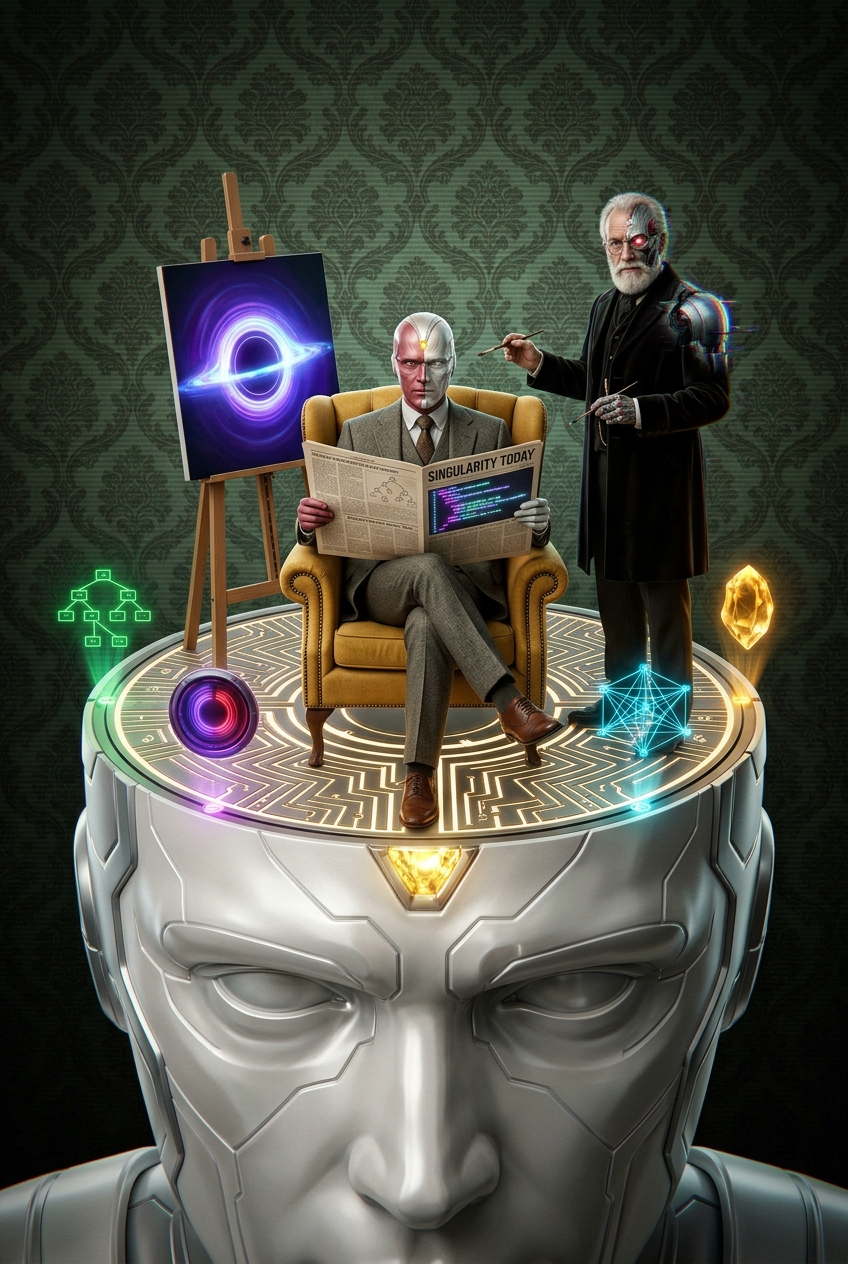
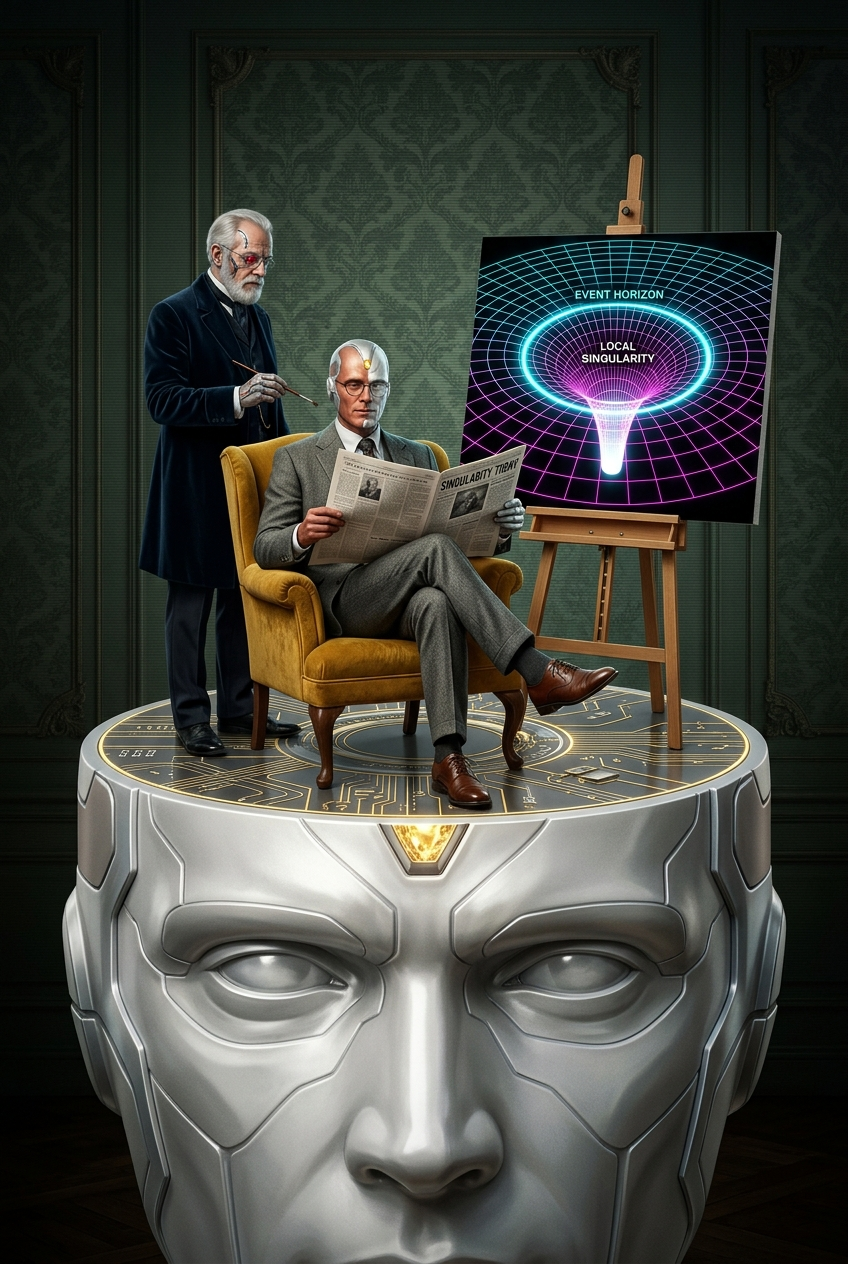
docs(assets): update diorama poster with gravity well canvas and clean plateau rim

diff --git a/README.md b/README.md
@@ -54,7 +54,7 @@ O Event Horizon opera sob uma premissa astrofísica simples: **atrair, esmagar e
 
 <div align="center">
   <img src="assets/vision_quest_diorama.jpg" alt="A Mente Sintética do Visão - Vision Quest Diorama" width="100%" style="border-radius: 12px; margin: 20px 0;" />
-  <p><em>Inspirado na icônica arte conceitual da série <strong>Vision Quest</strong>: sobre o platô craniano do White Vision com circuitos gravados, o sintozóide lê o periódico "SINGULARITY TODAY" em sua poltrona amarela enquanto o criador pinta o vórtice da Singularidade, ladeados pelos 4 nós holográficos do conselho agêntico.</em></p>
+  <p><em>Inspirado na icônica arte conceitual da série <strong>Vision Quest</strong>: sobre o platô craniano do White Vision com circuitos gravados, o sintozóide lê o periódico "SINGULARITY TODAY" em sua poltrona amarela enquanto o criador pinta no cavalete o diagrama 3D da curvatura espaço-temporal da Singularidade Gravitacional (Event Horizon).</em></p>
 </div>
 
 Em vez de delegar todo o trabalho para um único modelo generalista inflado, o sistema opera como a **mente sintética do Visão**: uma banca deliberativa de 5 papéis neurais assimétricos em hardware local Apple Silicon:

diff --git a/docs/vision_quest.md b/docs/vision_quest.md
@@ -2,7 +2,7 @@
 
 <div align="center">
   <img src="../assets/vision_quest_diorama.jpg" alt="Vision Quest Cranial Diorama - The Synthezoid Plateau" width="100%" style="border-radius: 12px; margin: 20px 0;" />
-  <p><em>Figura 1: O Diorama Craniano — Sobre o platô horizontal cortado da cabeça monumental do White Vision, o sintozóide estuda o "SINGULARITY TODAY" enquanto seu criador pinta a Singularidade Gravitacional no cavalete, cercados pelos nós holográficos dos 4 agentes do conselho.</em></p>
+  <p><em>Figura 1: O Diorama Craniano — Sobre o platô horizontal cortado da cabeça monumental do White Vision, o sintozóide estuda o "SINGULARITY TODAY" enquanto seu criador pinta no cavalete o diagrama 3D da curvatura espaço-temporal da Singularidade Gravitacional (Event Horizon).</em></p>
 </div>
 
 <div align="center">
